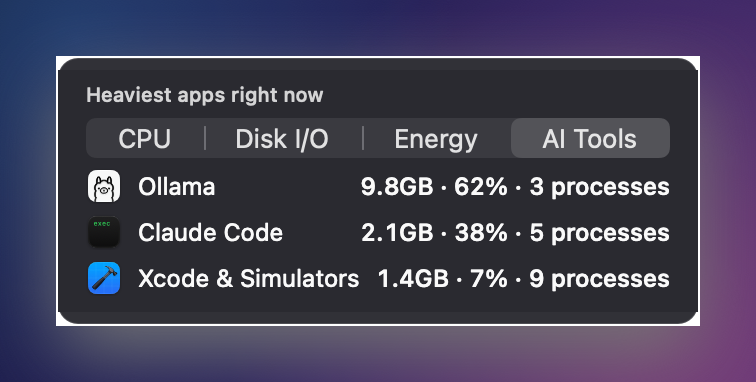
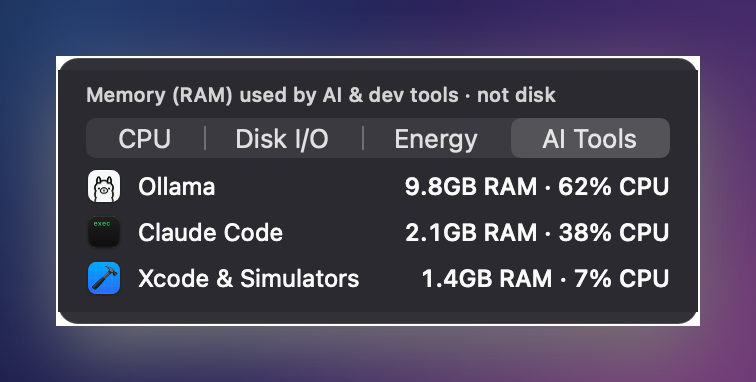
Site: power mode, celebratory clean-up, clearer AI Tools labels

diff --git a/guide/index.html b/guide/index.html
@@ -258,15 +258,15 @@ footer{border-top:1px solid var(--line);padding:24px 16px;text-align:center;colo
 </ol>
 <p>Rows update only while the menu is open.</p>
 <h3 id="top-offenders">Top Offenders</h3>
-<p>A switch at the top of the section chooses <strong>CPU</strong>, <strong>Disk I/O</strong>, <strong>Energy</strong> or <strong>AI Tools</strong>. The first three list the three heaviest apps right now, with their icons. <strong>AI Tools</strong> lists the three AI and developer tools using the most memory, each with its memory, CPU and process count (see <a href="#for-ai-developers">For AI developers</a>). StatBar remembers your choice.</p>
+<p>A switch at the top of the section chooses <strong>CPU</strong>, <strong>Disk I/O</strong>, <strong>Energy</strong> or <strong>AI Tools</strong>. The first three list the three heaviest apps right now, with their icons. <strong>AI Tools</strong> lists the three AI and developer tools using the most memory, each with its RAM and CPU (see <a href="#for-ai-developers">For AI developers</a>). StatBar remembers your choice.</p>
 <ul>
 <li>Helper processes are rolled up into their app, so a browser and its twenty helpers are one line.</li>
-<li>CPU is shown as a percentage of one core, so it can exceed 100% for an app using several cores. Energy is shown in watts. Disk I/O is bytes per second.</li>
+<li>CPU is shown as a percentage of one core, so it can exceed 100% for an app using several cores. Energy is shown in watts. Disk I/O is bytes per second read from and written to your drive: it is disk activity, not network upload or download, and not free space.</li>
 <li>In the first three views, apps below a small floor (under 1% CPU, 10 KB/s of disk, or 0.05 W) are not listed, so a quiet Mac can show fewer than three. AI Tools lists only tools that are running.</li>
 <li>Sampling happens only while the menu is open. Rates need two samples, so the list appears about a second after you open the menu.</li>
 <li>Processes owned by the system are hidden from ordinary apps. Turn on <strong>Settings › Include System Processes</strong> if you want WindowServer, kernel_task and other root daemons to be counted.</li>
 </ul>
-<p><strong>Why there is no per-app network.</strong> macOS exposes per-app network traffic only through a command-line subprocess (<code>nettop</code>) or a private framework. StatBar uses neither: it runs no subprocesses to take readings and uses no private interfaces. The Network monitor shows per-interface totals instead. The GPU monitor likewise shows the whole device, not per-app GPU use.</p>
+<p><strong>Why there is no per-app network.</strong> macOS exposes per-app network traffic only through a command-line subprocess (<code>nettop</code>) or a private framework. StatBar uses neither: it runs no subprocesses to take its readings (the one exception is a quick <code>pmset</code> when the menu opens, to read the energy mode) and uses no private interfaces. The Network monitor shows per-interface totals instead. The GPU monitor likewise shows the whole device, not per-app GPU use.</p>
 <h2 id="monitors">Monitors</h2>
 <p>Choose <strong>Open Monitors...</strong> (Command-M while the menu is open), or click a reading in the menu. The window has one tab each for <strong>CPU</strong>, <strong>Memory</strong>, <strong>Disk</strong>, <strong>Network</strong>, <strong>GPU</strong>, <strong>Battery</strong> and <strong>Ports</strong>. Detail sampling runs only while the window is visible and not paused. Closing, hiding or minimizing it, or sleeping the Mac, stops it.</p>
 <h3 id="the-tabs">The tabs</h3>
@@ -364,7 +364,7 @@ footer{border-top:1px solid var(--line);padding:24px 16px;text-align:center;colo
 <p>StatBar recognizes tools by <strong>process names, executable paths and ancestry</strong>. It has a fixed list: Claude Code, Codex, Gemini CLI, Aider, Cursor, Windsurf, VS Code, the Claude app, ChatGPT, Ollama, LM Studio, llama.cpp, Jupyter, Docker, and Xcode and Simulators. A process belongs to a tool if its own name or path says so. Failing that, it belongs to a tool if something that started it does, so work a tool kicked off is charged to it: <code>python3.13 ← uv ← codex</code> counts as Codex.</p>
 <p>This is a heuristic, not a registry. A tool that is renamed, wrapped, or installed somewhere unusual can be missed, and an unrelated process that happens to be started by a tool is counted as that tool's. The ancestry part also depends on StatBar having watched the process start (see <a href="#the-parent-column">The Parent column</a>). A tool not on the list is not recognized.</p>
 <h3 id="ai-tools-in-top-offenders">AI Tools in Top Offenders</h3>
-<p>Choose <strong>AI Tools</strong> in the Top Offenders switch. It lists the three tools using the most memory right now, each with a line such as <code>4.2 GB · 38% · 12 processes</code>: memory, CPU (as a percentage of one core, so it can exceed 100%) and process count, totalled over everything charged to that tool. Memory is physical footprint. Nothing is listed when none of the listed tools is running.</p>
+<p>Choose <strong>AI Tools</strong> in the Top Offenders switch. It lists the three tools using the most memory right now, each with a line such as <code>4.2 GB RAM · 38% CPU</code>: memory and CPU (as a percentage of one core, so it can exceed 100%), totalled over everything charged to that tool. Hover a row for its process count. The memory is RAM in use, <strong>not disk space</strong>. Memory is physical footprint. Nothing is listed when none of the listed tools is running.</p>
 <h3 id="stuck-agents">Stuck agents</h3>
 <p>If a process that belongs to Claude Code, Codex, Gemini CLI or Aider (its own, or one it started) looks like it got away from its agent, a warning line appears under Top Offenders while the menu is open: <code>⚠ Codex: python3.13 may be stuck — 99% CPU, averaging 95% for 50 min</code>. Hover for up to six; click to open Monitors on the AI &amp; Dev Tools filter.</p>
 <p>Two things are flagged, and only among your own processes:</p>
@@ -617,7 +617,11 @@ footer{border-top:1px solid var(--line);padding:24px 16px;text-align:center;colo
 <li>the helper hears nothing from StatBar for 30 seconds. StatBar re-sends at least every 10 seconds while a manual mode is on.</li>
 </ul>
 <p>If the temperature reading is missing in Follow mode, StatBar hands the fans back to macOS rather than guessing. Fans and the helper cannot be exercised without root and your approval, so they have not been tested on every Mac model. Try a manual mode while you are watching the Fans row.</p>
-<p><strong>Remove Fan Helper</strong> (at the bottom of the Fan Control menu) sets the mode back to Automatic and unregisters the helper.</p>
+<p><strong>Remove StatBar Helper</strong> (at the bottom of the Fan Control menu) sets the mode back to Automatic and unregisters the helper.</p>
+<h3 id="power-mode">Power Mode</h3>
+<p>On Macs that have an energy mode, the menu shows a <strong>Power Mode</strong> switch with three choices: <strong>Low Power</strong> (cooler, quieter, and longer battery life), <strong>Automatic</strong> (macOS decides), and <strong>High Power</strong> (sustained speed under heavy load, on the Macs that offer it, such as some MacBook Pro and Mac Studio models). A Mac with no energy mode, such as many desktops, does not show the switch, and a choice the Mac does not support is greyed out.</p>
+<p>macOS only lets an administrator change this, so the first time you pick a mode StatBar asks you to approve its helper in <strong>System Settings › General › Login Items</strong>, exactly as for fan control, and only after your click. The helper runs <code>/usr/bin/pmset</code> with a fixed command for the mode you chose, then reads the setting back to confirm it took. If it did not, the switch returns to what the Mac is really doing and says why.</p>
+<p>It changes the same persistent setting as <strong>System Settings › Battery › Energy Mode</strong>, for both battery and power adapter, so it stays until you change it again. Reading the current mode needs no approval and happens only when the menu opens. The mode also appears in the status snapshot.</p>
 <h2 id="permissions-and-privacy">Permissions and privacy</h2>
 <p>StatBar is built around one rule: ask once, only when asked, never again.</p>
 <ul>
@@ -635,13 +639,13 @@ footer{border-top:1px solid var(--line);padding:24px 16px;text-align:center;colo
 <p><strong>A value shows an em dash, "unavailable" or "none".</strong> That reading is not available on this Mac (a desktop has no battery, some Macs have no fans), or it is the first sample after a pause and needs one more tick.</p>
 <p><strong>The first values look strange.</strong> CPU, network and process rates need two samples. Give it a tick.</p>
 <p><strong>The helper says "Helper: approve in System Settings › Login Items".</strong> Open <strong>System Settings › General › Login Items</strong>, and under <strong>Allow in the Background</strong> switch <strong>StatBar</strong> on. If you dismissed the prompt, choose the fan mode or the Include System Processes setting again.</p>
-<p><strong>"Helper not installed" or "Helper missing from the app bundle".</strong> Choose <strong>Remove Fan Helper</strong>, then pick a fan mode (or toggle Include System Processes off and on) to register it again. "Missing from the app bundle" means the app was modified or damaged; download it again.</p>
+<p><strong>"Helper not installed" or "Helper missing from the app bundle".</strong> Choose <strong>Remove StatBar Helper</strong>, then pick a fan mode (or toggle Include System Processes off and on) to register it again. "Missing from the app bundle" means the app was modified or damaged; download it again.</p>
 <p><strong>Launch at Login will not turn on, or the helper keeps asking after every update.</strong> macOS ties these approvals to the app's code identity. Keep StatBar in <strong>Applications</strong>, and use the official download. A copy you compile yourself with no signing certificate gets a new identity on every build, so macOS asks again each time.</p>
 <p><strong>Reset all settings.</strong> Quit StatBar, then in Terminal run <code>defaults delete local.statbar.StatBar</code>, and open it again. This clears your stat toggles, interval, theme, sort choices, Weather location and fan mode.</p>
 <p><strong>Something looks wrong.</strong> Choose <strong>Help › Report a Problem...</strong> to start an email with your StatBar and macOS versions filled in. The address is iantrimble@remnantsecurity.com.</p>
 <h3 id="uninstall">Uninstall</h3>
 <ol type="1">
-<li>If you used fan control or Include System Processes, choose <strong>Fan Control › Remove Fan Helper</strong>. This returns the fans to Automatic and unregisters the helper.</li>
+<li>If you used fan control or Include System Processes, choose <strong>Fan Control › Remove StatBar Helper</strong>. This returns the fans to Automatic and unregisters the helper.</li>
 <li>If you turned on Launch at Login, choose <strong>Launch at Login</strong> again to turn it off.</li>
 <li>Open <strong>System Settings › General › Login Items</strong> and confirm StatBar is not listed under <strong>Open at Login</strong> or switched on under <strong>Allow in the Background</strong>. Switch it off if it is.</li>
 <li>Choose <strong>Quit StatBar</strong>.</li>

diff --git a/assets/index-DMXohTxC.js b/assets/index-DMXohTxC.js
@@ -14,7 +14,7 @@ final class BatterySampler {
         // IOKit.ps → IOPSCopyPowerSourcesInfo
         // charge %, cycles, time remaining
     }
-}`,k1=[["AI Tools view","Top Offenders, fourth view","Memory, CPU and process count per tool: Claude Code, Codex, Gemini CLI, Aider, Cursor, Windsurf, VS Code, the Claude app, ChatGPT, Ollama, LM Studio, llama.cpp, Jupyter, Docker, and Xcode & Simulators. Work a tool started is charged to it, so python3.13 ← uv ← codex counts as Codex. The Monitors process filter gains AI & Dev Tools."],["Stuck agents","Under Top Offenders",'A warning when a process Claude Code, Codex, Gemini CLI or Aider started has kept a core busy for 15+ minutes, or was left running after the agent exited. It says "may be stuck", since a long build looks the same, and it stops nothing without your confirmation.'],["Loaded Ollama model","Under Top Offenders","Which model Ollama has loaded, its size, how much is on the GPU, and when it unloads. Read from Ollama on 127.0.0.1, this Mac only, and only while Ollama is running."],["Free for models","Under Mem","Free memory plus reclaimable cache, capped at the working-set limit macOS gives Metal, shown beside swap. Roughly the largest local model that fits right now. An estimate, not a promise."],["Thermal and disk forecast","Dropdown rows",'Thermal reads nominal, fair, serious or critical, plus Low Power Mode. Under Disk, "filling +X/h · full in ~N h" appears only while the disk is growing by at least 200 MB/h over ten minutes or more.'],["Ports tab","Monitors, seventh tab",'The TCP ports your own processes are listening on, read with libproc (no lsof, no subprocess): Process, Port, PID, Reachable from ("This Mac only" or "Network (all)") and Started by. Find what is holding :3000 or :11434, then Stop Process or Force Stop it, after a confirmation. Only your own processes are visible, which is also all that can be stopped.'],["AI column in the bar","Optional · off by default","Turn on AI Tools Memory in the menu for an AI column: the memory held by recognised AI and dev tools, colored by its share of your RAM. Off, it is not measured. The GPU row in the dropdown also shows GPU memory in use."],["Status for your agent","Copy Status for AI Agent · --snapshot","One click copies a Markdown summary of the Mac: thermal state, CPU, memory and swap, disk, battery, top processes with what started them, and the AI tools running. Scripts and agents can run StatBar --snapshot instead. No serial number, and nothing leaves the Mac."]],X1=`$ /Applications/StatBar.app/Contents/MacOS/StatBar --snapshot
+}`,k1=[["AI Tools view","Top Offenders, fourth view","Memory, CPU and process count per tool: Claude Code, Codex, Gemini CLI, Aider, Cursor, Windsurf, VS Code, the Claude app, ChatGPT, Ollama, LM Studio, llama.cpp, Jupyter, Docker, and Xcode & Simulators. Work a tool started is charged to it, so python3.13 ← uv ← codex counts as Codex. The Monitors process filter gains AI & Dev Tools."],["Stuck agents","Under Top Offenders",'A warning when a process Claude Code, Codex, Gemini CLI or Aider started has kept a core busy for 15+ minutes, or was left running after the agent exited. It says "may be stuck", since a long build looks the same, and it stops nothing without your confirmation.'],["Loaded Ollama model","Under Top Offenders","Which model Ollama has loaded, its size, how much is on the GPU, and when it unloads. Read from Ollama on 127.0.0.1, this Mac only, and only while Ollama is running."],["Power mode switch","In the menu","Low Power, Automatic or High Power in one click on the Macs that have them. macOS only allows this for an administrator, so it uses the same optional helper as fan control, approved once, and reads the setting back to confirm it changed."],["Free for models","Under Mem","Free memory plus reclaimable cache, capped at the working-set limit macOS gives Metal, shown beside swap. Roughly the largest local model that fits right now. An estimate, not a promise."],["Thermal and disk forecast","Dropdown rows",'Thermal reads nominal, fair, serious or critical, plus Low Power Mode. Under Disk, "filling +X/h · full in ~N h" appears only while the disk is growing by at least 200 MB/h over ten minutes or more.'],["Ports tab","Monitors, seventh tab",'The TCP ports your own processes are listening on, read with libproc (no lsof, no subprocess): Process, Port, PID, Reachable from ("This Mac only" or "Network (all)") and Started by. Find what is holding :3000 or :11434, then Stop Process or Force Stop it, after a confirmation. Only your own processes are visible, which is also all that can be stopped.'],["AI column in the bar","Optional · off by default","Turn on AI Tools Memory in the menu for an AI column: the memory held by recognised AI and dev tools, colored by its share of your RAM. Off, it is not measured. The GPU row in the dropdown also shows GPU memory in use."],["Status for your agent","Copy Status for AI Agent · --snapshot","One click copies a Markdown summary of the Mac: thermal state, CPU, memory and swap, disk, battery, top processes with what started them, and the AI tools running. Scripts and agents can run StatBar --snapshot instead. No serial number, and nothing leaves the Mac."]],X1=`$ /Applications/StatBar.app/Contents/MacOS/StatBar --snapshot
 # Mac status (StatBar 1.0.0)
 - Thermal: nominal
 - Memory: pressure normal, swap 0 B, about 18 GB free for a model

diff --git a/index.html b/index.html
@@ -36,7 +36,7 @@
      "offers":{"@type":"Offer","price":"9.95","priceCurrency":"USD"},
      "publisher":{"@type":"Organization","name":"Remnant Security","url":"https://remnantsecurity.com/"}}
     </script>
-    <script type="module" crossorigin src="./assets/index-By1YMVg7.js"></script>
+    <script type="module" crossorigin src="./assets/index-DMXohTxC.js"></script>
     <link rel="stylesheet" crossorigin href="./assets/index-DRxuEjDC.css">
   </head>
   <body>
